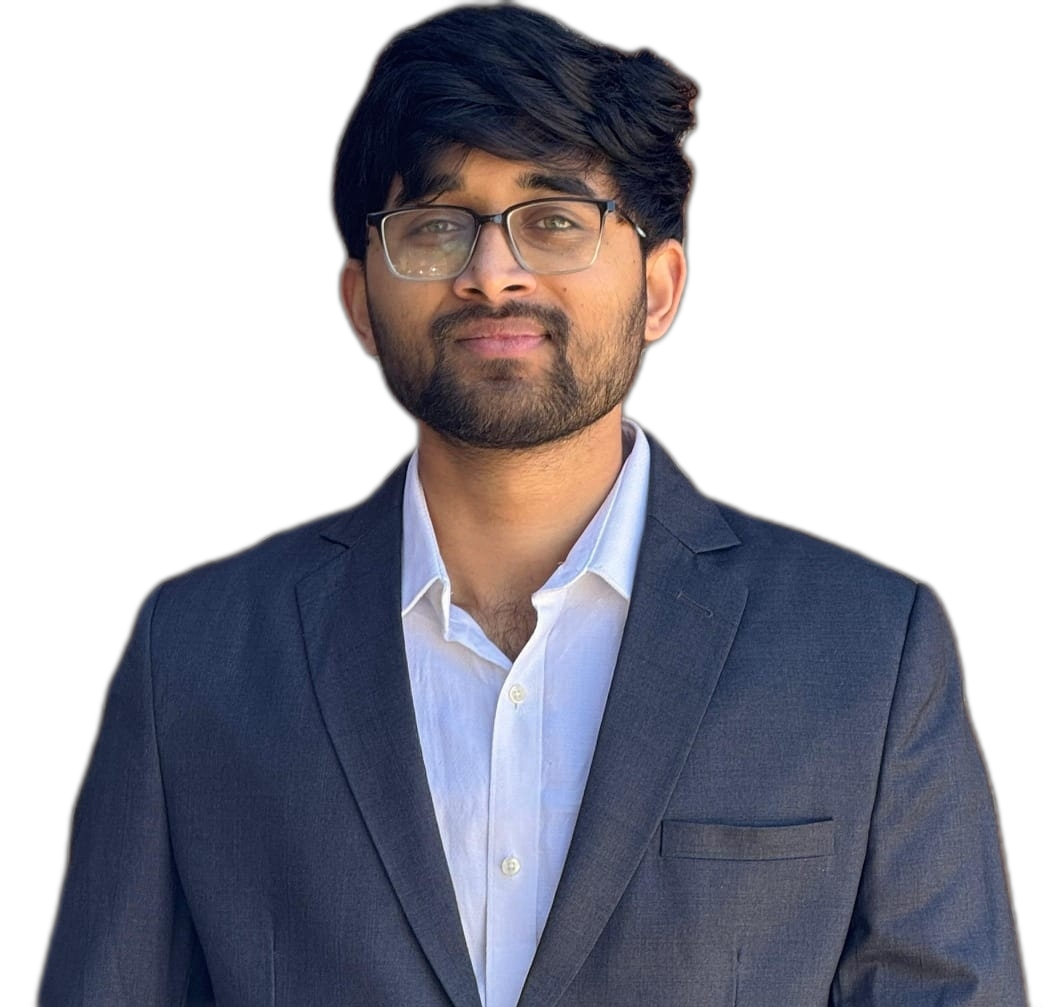
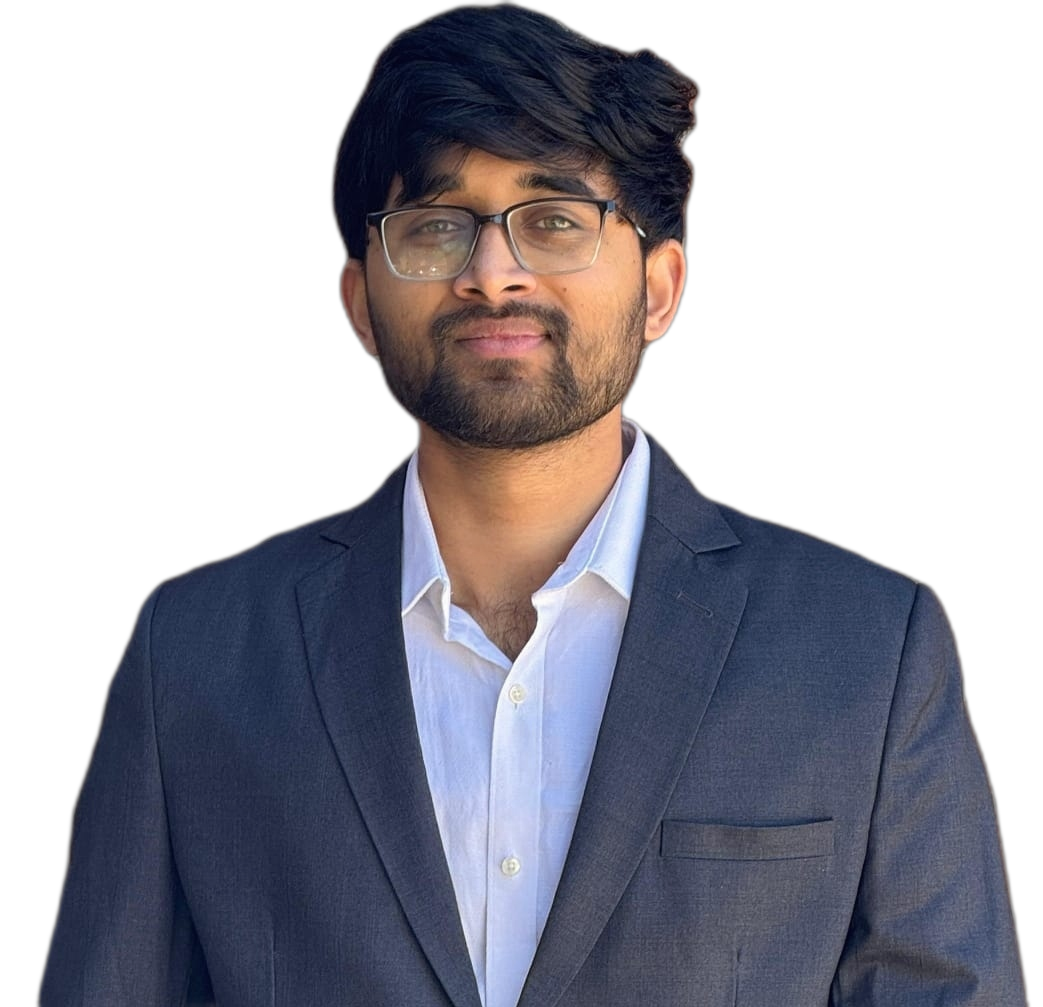
fix: AI background removal on profile photo + clean up CSS
Used rembg (u2net model) to properly remove background from profile.png,
giving clean transparent edges around hair. Removed mix-blend-mode hack
since the image is now RGBA with true transparency.

diff --git a/src/App.jsx b/src/App.jsx
@@ -455,7 +455,6 @@ const Hero = () => {
             alt="Gnanadeep Gudapati"
             className="w-full h-auto max-h-[85vh] object-cover"
             style={{
-              mixBlendMode: 'multiply',
               maskImage: 'linear-gradient(to bottom, black 60%, transparent 82%)',
               WebkitMaskImage: 'linear-gradient(to bottom, black 60%, transparent 82%)',
             }}
@@ -601,7 +600,6 @@ const Hero = () => {
                 alt="Gnanadeep Gudapati"
                 className="w-full rounded-4xl object-cover"
                 style={{
-                  mixBlendMode: 'multiply',
                   maskImage: 'linear-gradient(to bottom, black 60%, transparent 82%)',
                   WebkitMaskImage: 'linear-gradient(to bottom, black 60%, transparent 82%)',
                 }}
